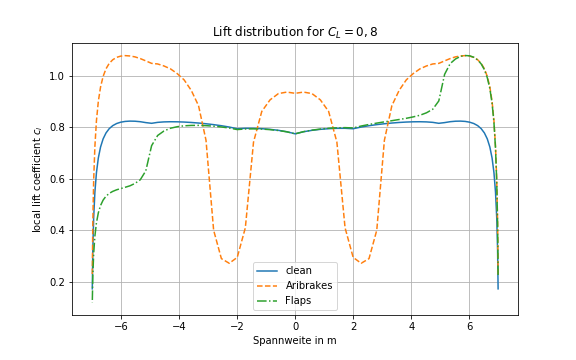
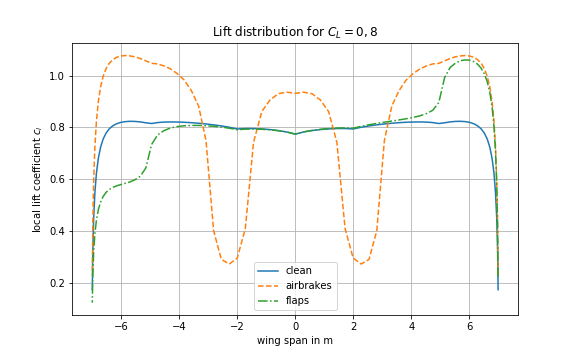
fix bug and remove test file

diff --git a/wingstructure/analysis.py b/wingstructure/analysis.py
@@ -45,7 +45,7 @@ class LiftAnalysis(object):
             
         for flap_name in flap_deflections:
             if flap_name in self.flaps_lift:
-                factor = 22.743 * np.arctan( 0.04715 * np.array(flap_deflections[flap_name]) )
+                factor = self._calculate_eta_keff(np.array(flap_deflections[flap_name]))
                 lift -= self.flaps_lift[flap_name] * np.sum(factor)
                 flap_distribution = self.flaps_distribution[flap_name]
                 distributions += flap_distribution*factor[0]+flap_distribution[::-1]*factor[1] 
@@ -84,7 +84,7 @@ class LiftAnalysis(object):
         # TODO: use airfoils lift coefficient slope
         dcl = np.array([2 * np.pi] * self.n)
 
-        # use Multhopp for calculation
+        # use multhopp method for calculation
         result = solve_multhopp(alphas, self.calculation_positions, self.calculation_chord_lengths, dcl,
                                 wing.span_width(), wing.aspect_ratio())
 
@@ -122,7 +122,7 @@ class LiftAnalysis(object):
             result = solve_multhopp(alphas, self.calculation_positions, self.calculation_chord_lengths, np.array( [2*np.pi] *self.n),
                                             wing.span_width(), wing.aspect_ratio())
             
-            distributions[name] = result['c_l']
+            distributions[name] = result['c_l']/eta_keff
             lift[name] = result['C_L']
     
         return distributions, lift
@@ -147,7 +147,7 @@ class LiftAnalysis(object):
         return result['c_l'], result['C_L']
 
     @staticmethod
-    def _calculate_eta_keff(eta_k: float) -> float:
+    def _calculate_eta_keff(eta_k: float or np.ndarray) -> float:
         return 22.743 * np.arctan(0.04715 * eta_k)
         
     

diff --git a/setup.py b/setup.py
@@ -26,7 +26,8 @@ setup(name='wingstructure',
     packages=['wingstructure'],
     install_requires= [
         'numpy',
-        'sortedcontainers'
+        'sortedcontainers',
+        'matplotlib'
     ],
     zip_safe=False
     )
